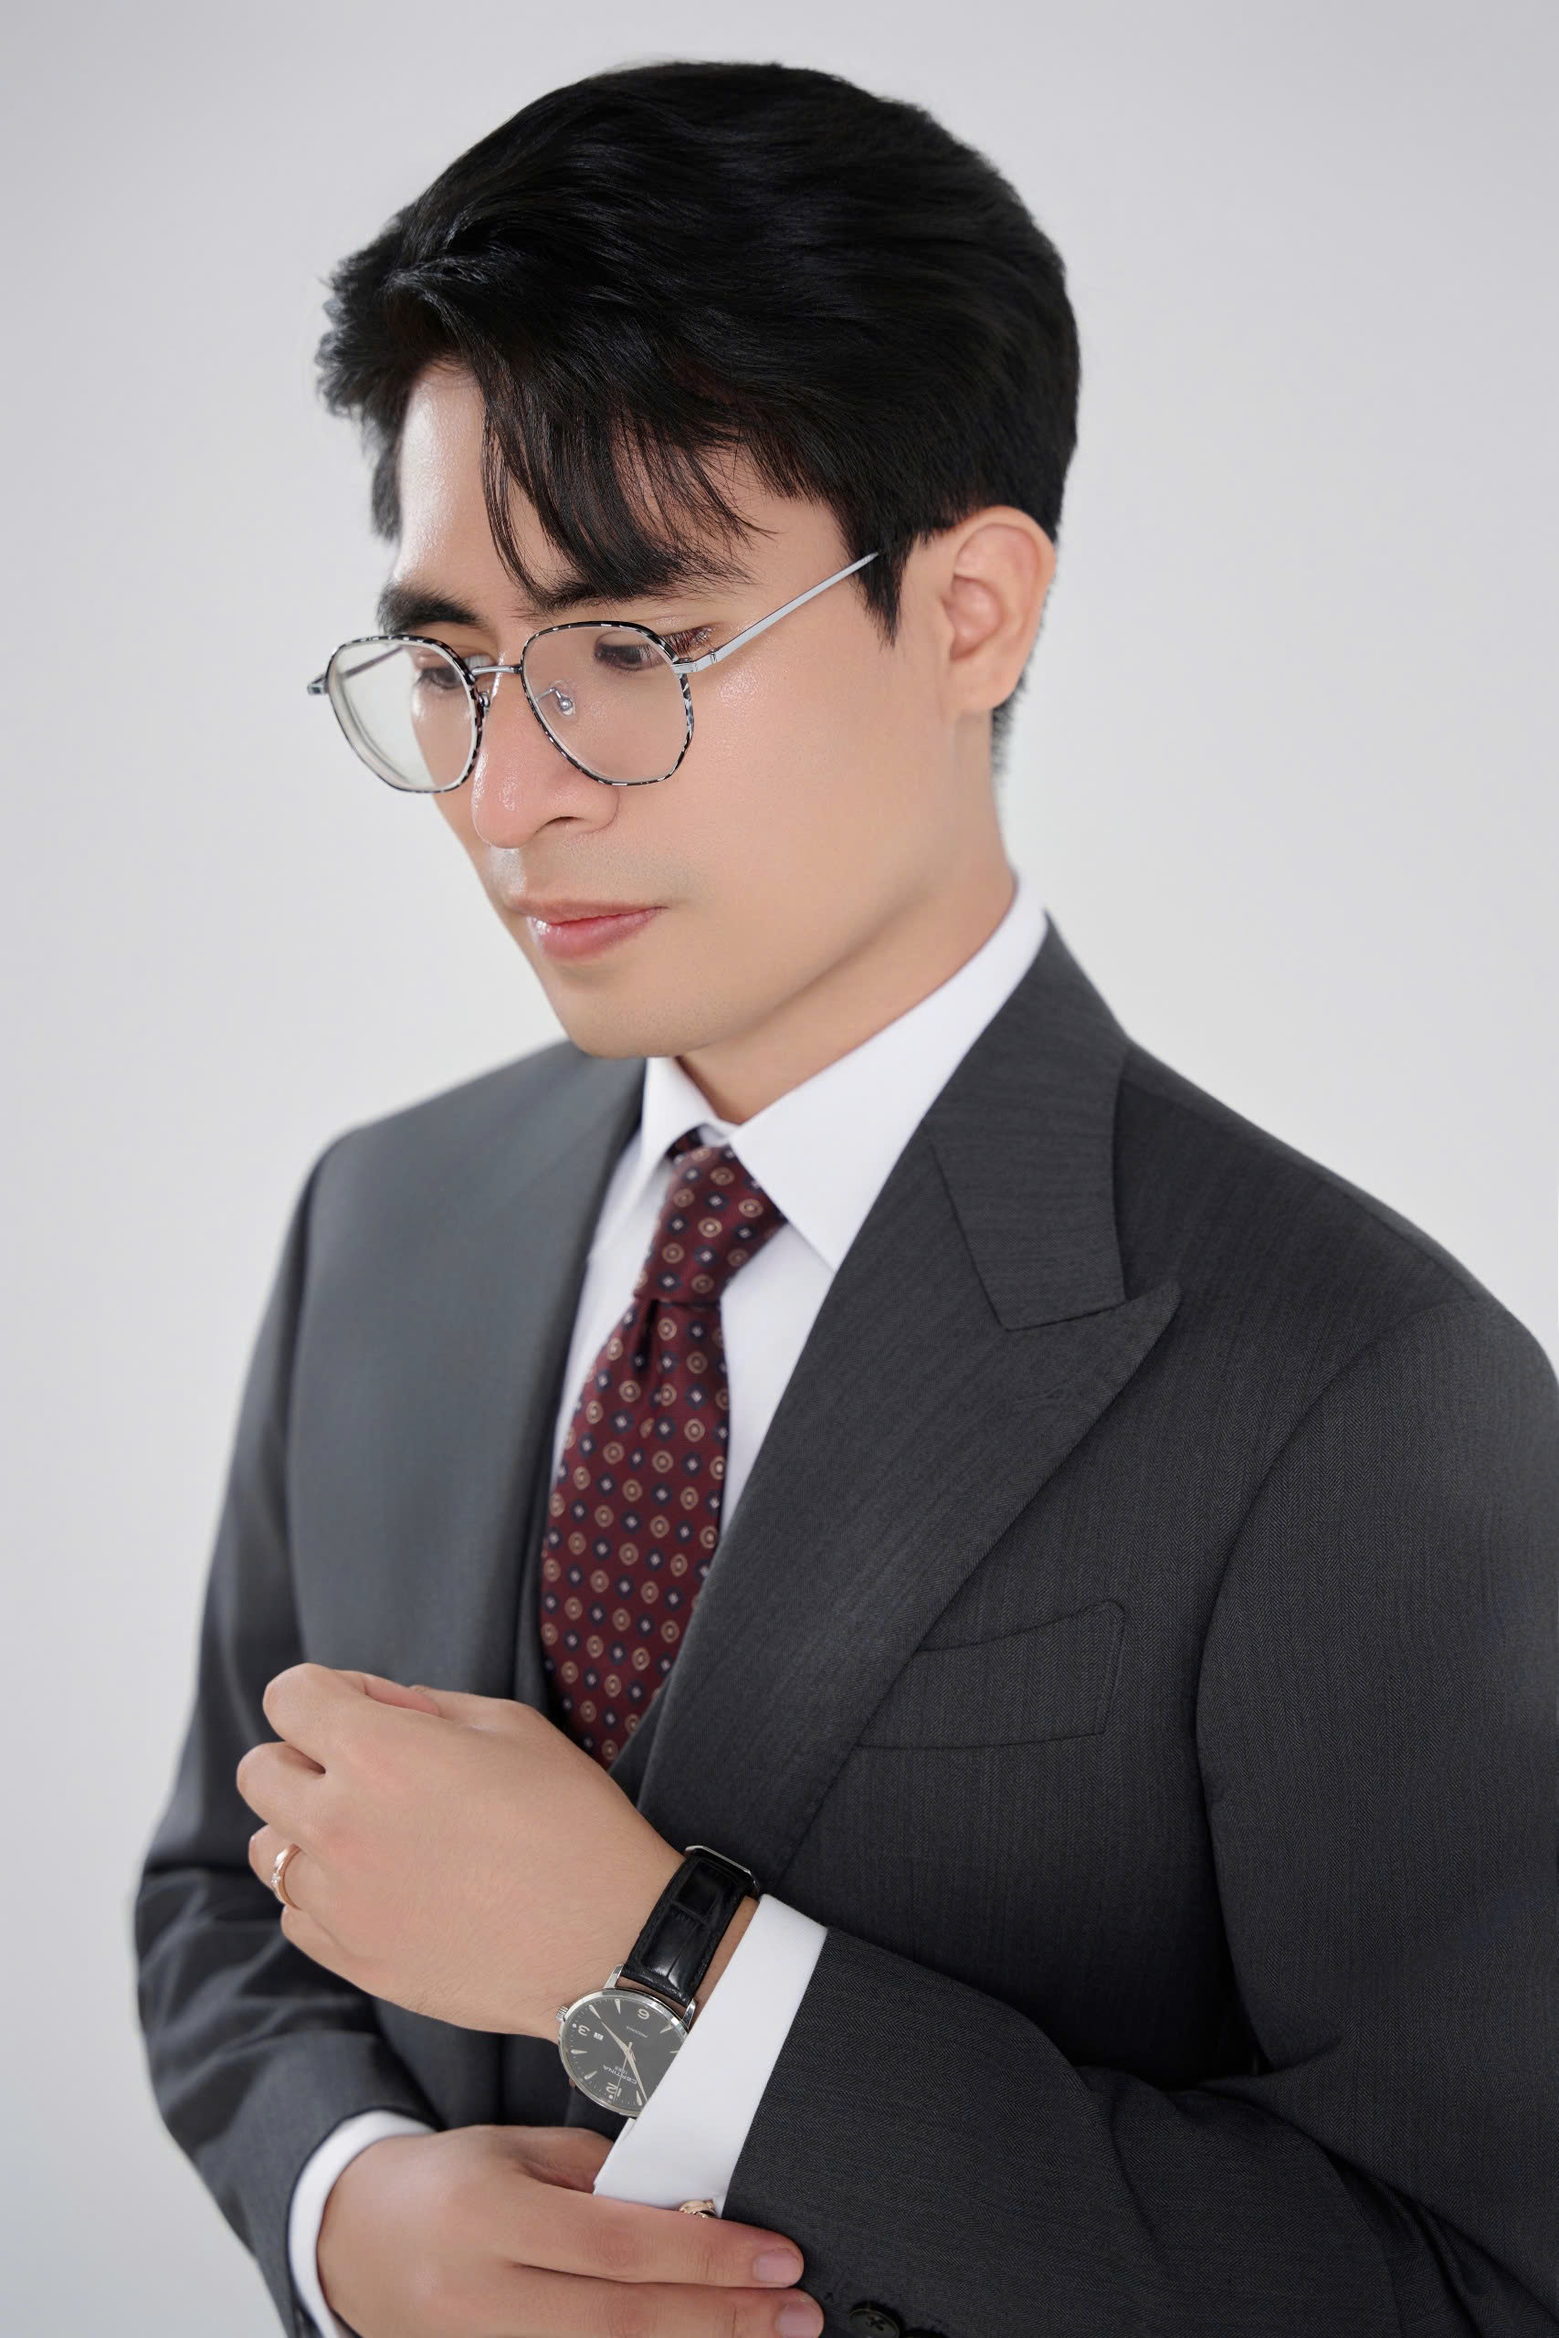
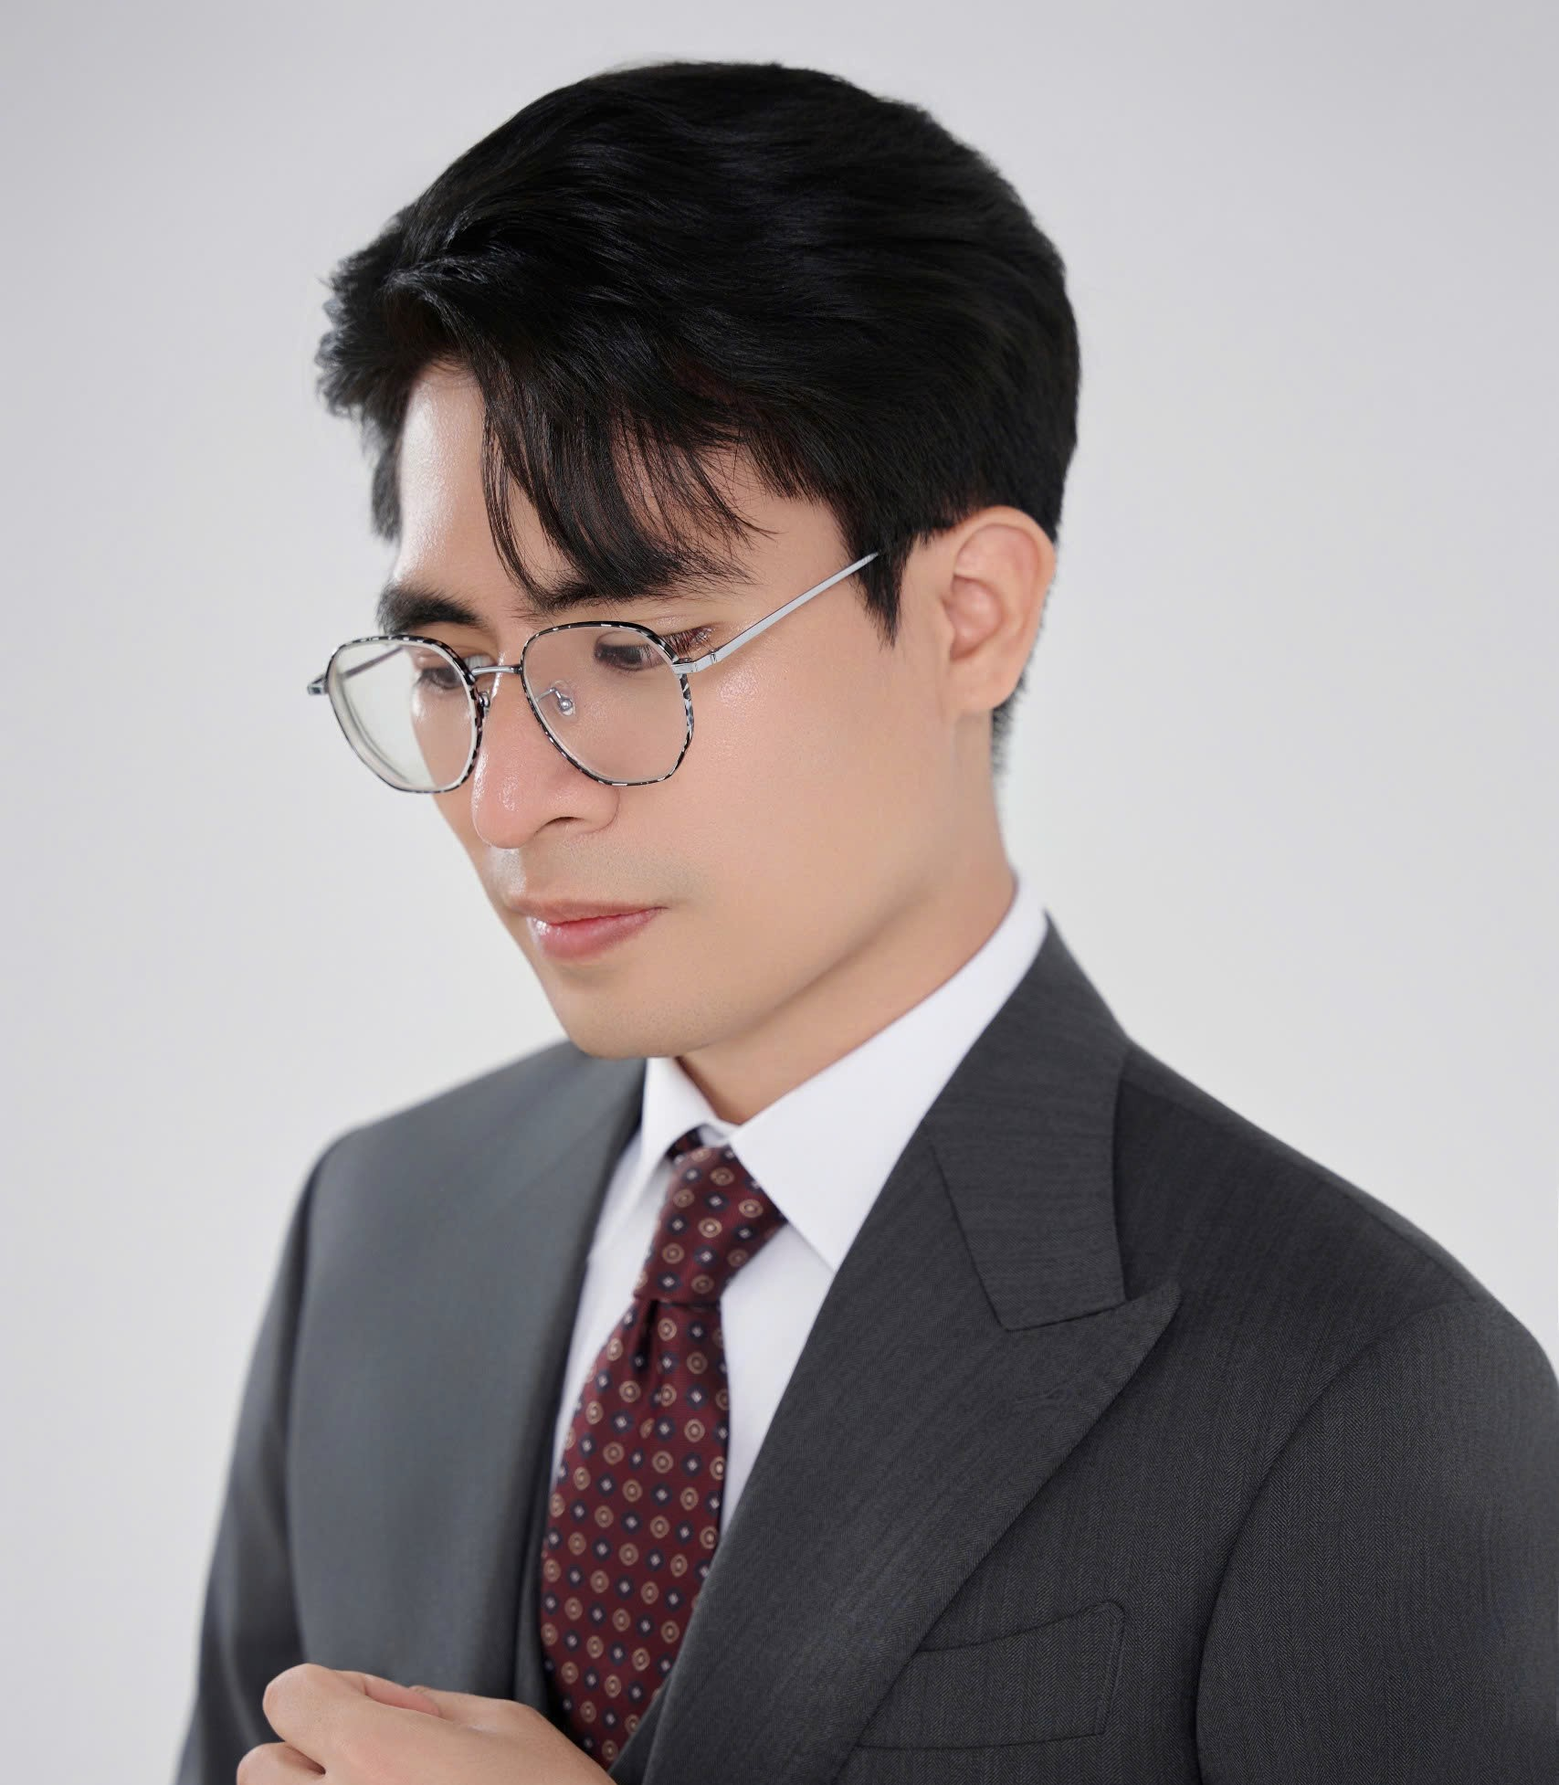
DONE

diff --git a/index.html b/index.html
@@ -173,7 +173,7 @@ window._wpemojiSettings = {"baseUrl":"https:\/\/s.w.org\/images\/core\/emoji\/15
   <!-- ABOUT -->
   <section id="about" class="section-about">
     <div class="section-heading">
-      <h2 class="section-title">Chú Rể Và Cô Dâu</h2>
+      <h2 class="section-title"> Cô Dâu Và Chú Rể </h2>
             </div>
     <div class="about-container container">
       <div class="about-card" style="order:1">
@@ -259,8 +259,8 @@ window._wpemojiSettings = {"baseUrl":"https:\/\/s.w.org\/images\/core\/emoji\/15
 
 <section id="time-line" class="time-line-section">
       <div class="time-line container">
-        <span class="line1"></span>
-        <span class="line2"></span>
+      <!--   <span class="line1"></span>
+        <span class="line2"></span> -->
         <h2 class="timeline-title">Wedding Timeline</h2>
        
         <div class="timeline-list">
@@ -351,55 +351,55 @@ window._wpemojiSettings = {"baseUrl":"https:\/\/s.w.org\/images\/core\/emoji\/15
           </div>
     <div class="album container">
                 <div class="album-item">
-            <a data-fancybox="gallery" href="images/DSC00432.jpg">
-                <img src="images/DSC00432.jpg" alt="">
+            <a data-fancybox="gallery" href="images/02c43074235cae02f74d14.jpg">
+                <img src="images/02c43074235cae02f74d14.jpg" alt="">
             </a>
         </div>
                 <div class="album-item">
-            <a data-fancybox="gallery" href="images/DSC00883.jpg">
-                <img src="images/DSC00883.jpg" alt="">
+            <a data-fancybox="gallery" href="images/23baa7acb58438da61954.jpg">
+                <img src="images/23baa7acb58438da61954.jpg" alt="">
             </a>
         </div>
                 <div class="album-item">
-            <a data-fancybox="gallery" href="images/DSC01258.jpg">
-                <img src="images/DSC01258.jpg" alt="">
+            <a data-fancybox="gallery" href="images/47650c631e4b9315ca5a3.jpg">
+                <img src="images/47650c631e4b9315ca5a3.jpg" alt="">
             </a>
         </div>
                 <div class="album-item">
-            <a data-fancybox="gallery" href="images/DSC01420.jpg">
-                <img src="images/DSC01420.jpg" alt="">
+            <a data-fancybox="gallery" href="images/575805b017989ac6c3892.jpg">
+                <img src="images/575805b017989ac6c3892.jpg" alt="">
             </a>
         </div>
                
                 <div class="album-item">
-            <a data-fancybox="gallery" href="images/DSC05008.jpg">
-                <img src="images/DSC05008.jpg" alt="">
+            <a data-fancybox="gallery" href="images/79926774755cf802a14d1.jpg">
+                <img src="images/79926774755cf802a14d1.jpg" alt="">
             </a>
         </div>
 
                 <div class="album-item">
-            <a data-fancybox="gallery" href="images/DSC03522.jpg">
-                <img src="images/DSC03522.jpg" alt="">
+            <a data-fancybox="gallery" href="images/b61e4ad359fbd4a58dea15.jpg">
+                <img src="images/b61e4ad359fbd4a58dea15.jpg" alt="">
             </a>
         </div>
                 <div class="album-item">
-            <a data-fancybox="gallery" href="images/DSC03689.jpg">
-                <img src="images/DSC03689.jpg" alt="">
+            <a data-fancybox="gallery" href="images/83feef9dfdb570eb29a49.jpg">
+                <img src="images/83feef9dfdb570eb29a49.jpg" alt="">
             </a>
         </div>
         <div class="album-item">
-          <a data-fancybox="gallery" href="images/DSC04263.jpg">
-              <img src="images/DSC04263.jpg" alt="">
+          <a data-fancybox="gallery" href="images/511596218409095750186.jpg">
+              <img src="images/511596218409095750186.jpg" alt="">
           </a>
       </div>
            <div class="album-item">
-            <a data-fancybox="gallery" href="images/DSC03329.jpg">
-                <img src="images/DSC03329.jpg" alt="">
+            <a data-fancybox="gallery" href="images/b24a44d957f1daaf83e012.jpg">
+                <img src="images/b24a44d957f1daaf83e012.jpg" alt="">
             </a>
         </div>
          <div class="album-item">
-            <a data-fancybox="gallery" href="images/DSC02908.jpg">
-                <img src="images/DSC02908.jpg" alt="">
+            <a data-fancybox="gallery" href="images/d2fb5a784950c40e9d4111.jpg">
+                <img src="images/d2fb5a784950c40e9d4111.jpg" alt="">
             </a>
         </div>
             </div>
@@ -443,44 +443,44 @@ window._wpemojiSettings = {"baseUrl":"https:\/\/s.w.org\/images\/core\/emoji\/15
 <!-- INVITATION -->
 <section id="invitation" class="section-invitation">
     <div class="container">
- 
+ <h1 class="invitation-title uk-text-center">Trân Trọng Kính Mời</h1>
       <div class="uk-section">
 	<div class="uk-grid uk-child-width-1-2@m" uk-grid="">
 		<div class="invitation-card"> 
 			<div class="invitation-media"> 
-				<img src="images/DSC02971.jpg" alt=""> 
+				<img src="images/47650c631e4b9315ca5a3.jpg" alt=""> 
 			</div> 
 				<div class="invitation-body"> 
-							<h3 class="invitation-title">Trân Trọng Kính Mời Quý Khách Đến Tham Dự Lễ Thành Hôn Cùng Gia Đình Chúng Tôi tại</h3>
-					<h3 class="invitation-titles">Nhà Hàng Đông Đô</h3> 
-						<p>Lúc 18h00 ngày 15/06/2025 </p>
-						<p> ( Tức ngày 20 tháng 05 năm Ất Tỵ ) </p>
-					<p>Địa chỉ: TTTM SAPA - Libušská 319/126 PRAHA 4</p>
+							<h3 class="invitation-title">Tiệc Nhà Trai</h3>
+					<h3 class="invitation-titles">Trung tâm tiệc cưới Golden Palace </h3> 
+						<p>17h ngày 29/11/2025</p>
+						<p> ( Tức ngày 10 tháng 10 năm Ất Tỵ ) </p>
+					<p>Địa chỉ: 564 Đường Láng, Đống Đa, Hà Nội</p>
 					<div class="uk-light">
-						<!-- <a href="tel:+843906188795" class="uk-icon-button uk-margin-small-right" target="_blank" uk-icon="receiver"></a> -->
-						<a href="https://maps.app.goo.gl/tdafwgaLKXfbGVqj8" class="uk-icon-button  uk-margin-small-right" target="_blank" uk-icon="location"></a>
+						<a href="tel:+84987408099" class="uk-icon-button uk-margin-small-right" target="_blank" uk-icon="receiver"></a>
+						<a href="https://maps.app.goo.gl/PQk7t5BDn2d7k93V6?g_st=com.google.maps.preview.copy" class="uk-icon-button  uk-margin-small-right" target="_blank" uk-icon="location"></a>
 						
 					</div>
 			</div> 
 		</div>
-		 
-		<!-- <div class="invitation-card"> 
+		 <div class="invitation-card"> 
 			<div class="invitation-media"> 
-				<img src="images/A75EC5AB-B03D-4D62-8766-6CBE94EDD5FD.jpg" alt=""> 
+				<img src="images/da150756157e9820c16f7.jpg" alt=""> 
 			</div> 
 				<div class="invitation-body"> 
-				<h3 class="invitation-title">Đến dự bữa tiệc chung vui cùng gia đình chúng tôi tại</h3>
-					<h3 class="invitation-title">TƯ GIA NHÀ TRAI</h3> 
-					<p>DOLPHIN PALACE</p>
-					<p>Lúc 16h00' ngày 09/12/2024</p>
-					<p>Địa chỉ: 119A Đường Âu Cơ, Thành Phố Bắc Ninh</p>
+							<h3 class="invitation-title">Tiệc Nhà Gái</h3>
+					<h3 class="invitation-titles">Dãy A3, khu tập thể May và Đay Hưng Yên </h3> 
+						<p>16h ngày 28/11/2025</p>
+						<p> ( Tức ngày 09 tháng 10 năm Ất Tỵ ) </p>
+					<p>Địa chỉ: 315 Lê Văn Lương, Phường An Tảo, Hưng Yên</p>
 					<div class="uk-light">
-						<a href="tel:+84911222939" class="uk-icon-button uk-margin-small-right" target="_blank" uk-icon="receiver"></a>
-						<a href="https://maps.app.goo.gl/MHbxwftmxRWoCUj6A" class="uk-icon-button  uk-margin-small-right" target="_blank" uk-icon="location"></a>
-					
+						<a href="tel:+84339999069" class="uk-icon-button uk-margin-small-right" target="_blank" uk-icon="receiver"></a>
+						<a href="https://maps.app.goo.gl/R7JHaWXSfa1EZZZRA?g_st=com.google.maps.preview.copy" class="uk-icon-button  uk-margin-small-right" target="_blank" uk-icon="location"></a>
+						
 					</div>
 			</div> 
-		</div> -->
+		</div>
+		
 			</div>
 </div>
     </div>
@@ -490,7 +490,7 @@ window._wpemojiSettings = {"baseUrl":"https:\/\/s.w.org\/images\/core\/emoji\/15
 	<!-- END DRESS CODE -->	
 <!-- COUNT DOWN -->
 
-<section id="countdown-secton" class="uk-background-cover uk-section uk-section-large uk-text-center uk-light" style="background-image:url(images/b61e4ad359fbd4a58dea15.jpg)">
+<section id="countdown-secton" class="uk-background-cover uk-section uk-section-large uk-text-center uk-light" style="background-image:url(images/79926774755cf802a14d1.jpg)">
     <div class="uk-container">
     <p class="uk-text-center" style="color: white;">CÙNG ĐẾM NGƯỢC THỜI GIAN</p>
         <h2 class="uk-heading-small uk-text-center " style="color: white;">
@@ -499,7 +499,7 @@ window._wpemojiSettings = {"baseUrl":"https:\/\/s.w.org\/images\/core\/emoji\/15
         <path fill="red" d="M16.5 13.287c-2.475-2.716-5.5-.712-5.5 2.112c0 2.56 1.814 4.035 3.358 5.292l.044.036l.427.35c.571.475 1.121.923 1.671.923s1.1-.448 1.671-.923C19.789 19.73 22 18.224 22 15.399c0-.927-.326-1.767-.853-2.38c-1.075-1.251-2.985-1.556-4.647.268Z"></path>
         <path fill="#f1ebe4" d="M8.106 18.247C5.298 16.083 2 13.542 2 9.137C2 4.274 7.5.825 12 5.501C16.5.825 22 4.274 22 9.137c0 .834-.118 1.6-.329 2.31a4.203 4.203 0 0 0-2.619-.947c-.89-.005-1.758.274-2.553.81c-1.39-.933-2.956-1.058-4.33-.395c-1.635.79-2.669 2.556-2.669 4.484c0 2.306 1.149 3.923 2.342 5.095c-.948-.076-1.897-.808-2.88-1.583c-.277-.219-.564-.44-.856-.664Z"></path>
         </svg>
-       <div class="uk-grid-small uk-child-width-1-4 uk-flex-center uk-margin-large-top" uk-grid="" uk-countdown="date: 2025-06-15 18:00:00">
+       <div class="uk-grid-small uk-child-width-1-4 uk-flex-center uk-margin-large-top" uk-grid="" uk-countdown="date: 2025-11-29 17:00:00">
 			<div>
 				<div class="uk-countdown-number uk-countdown-days uk-padding-small uk-flex uk-flex-center uk-flex-middle blur-bg uk-border-rounded text-white"></div>
 				<div class="uk-countdown-label uk-margin-small uk-text-center ">Ngày</div>
@@ -558,12 +558,18 @@ window._wpemojiSettings = {"baseUrl":"https:\/\/s.w.org\/images\/core\/emoji\/15
                             <label for="" style="color:white">
                                 Xác nhận tham dự </label>
                                 <input style="border:1px solid white" type="text" id="accept" class="input blur-bg" required="">
+                                 <label for="" style="color:white">
+                                Bạn là khách mời của Cô Dâu hay Chú Rể </label>
+                                <input style="border:1px solid white" type="text" id="who" class="input blur-bg" required="">
+                                 <label for="" style="color:white">
+                                Bạn tham gia mấy người ? </label>
+                                <input style="border:1px solid white" type="text" id="number" class="input blur-bg" required="">
                     </div>
                     <button type="submit" class="btn btn-primary send_message uk-margin-top" style="color:white">Gửi
                         lời chúc</button>
                 </form>
                 <p style="margin-top:10px;" id="status"></p>
-                <a href="https://docs.google.com/spreadsheets/d/1me-YC1HD1c9_VrtBZdvKRt55CzypiS7NMTHswlciVgM/edit?usp=sharing" style="color:white">Xem lời chúc</a>
+                <a href="https://docs.google.com/spreadsheets/d/17NKPSbpW30NU6XLcuZRMlBHFi75jahZ4wKSF6d2_f7Y/edit?usp=sharing" style="color:white">Xem lời chúc</a>
             </div>
 
             <script>
@@ -571,14 +577,18 @@ window._wpemojiSettings = {"baseUrl":"https:\/\/s.w.org\/images\/core\/emoji\/15
                     event.preventDefault();
                     let name = document.getElementById("ten").value;
                     let message = document.getElementById("messages").value;
-                    let accept = document.getElementById("accept").value;         
+                    let accept = document.getElementById("accept").value;   
+                      let who = document.getElementById("who").value;
+                    let number = document.getElementById("number").value;       
                     // Thay thế bằng URL Google Form của bạn
-                    let googleFormURL = "https://docs.google.com/forms/u/0/d/e/1FAIpQLSd4MJsSjxTS2UNBQm03UVeUsaRLSlLcBpSwJwUm1WxXbjmmaw/formResponse";
+                    let googleFormURL = "https://docs.google.com/forms/u/0/d/e/1FAIpQLScYz-SFKPYHud3rlp_yUxrsF70-UymMFMx0ua9qD7wwqOryZA/formResponse";
                     // Các entry ID (tìm trong Google Form)
                     let formData = new FormData();
-                    formData.append("entry.1839461023", name); 
-                    formData.append("entry.455534166", message); 
-                    formData.append("entry.1628076004", accept);
+                    formData.append("entry.1849410774", name); 
+                    formData.append("entry.534858863", message); 
+                    formData.append("entry.1064688179", accept);
+                     formData.append("entry.2002979272", who); 
+                    formData.append("entry.240274296", number);
         
                     fetch(googleFormURL, {
                         method: "POST",
@@ -742,7 +752,7 @@ $(document).ready(function(){
 <!-- THANK YOU -->
 <section id="thankyou" class="section-thankyou bg_overlay uk-position-z-index">
 	<div class="uk-overlay uk-overlay-primary uk-position-cover"> </div>
-      <img src="images/da150756157e9820c16f7.jpg" alt="" class="thankyou-bg thankyou_img" style="object-position:">
+      <img src="images/83feef9dfdb570eb29a49.jpg" alt="" class="thankyou-bg thankyou_img" style="object-position:">
       <div class="thankyou-body container uk-position-relative uk-position-z-index">
         <h2 class="script-font uk-heading-medium uk-text-center text-white" data-aos="fade-up" data-aos-duration="2000">Thank you!</h2>
         <p class="thankyou-des" data-aos="fade" data-aos-duration="3000"></p><p>Sự hiện diện của mọi người là niềm vui và vinh hạnh cho gia đình chúng tôi. Rất hân hạnh được đón tiếp !</p>

diff --git a/css/style.css b/css/style.css
@@ -629,7 +629,7 @@ main{
     flex-direction: column;
     justify-content: center;
     align-items: center;
-    min-height: 60vh;
+    min-height: 100vh;
     color: var(--text-white);
     row-gap: 40px;
 }
